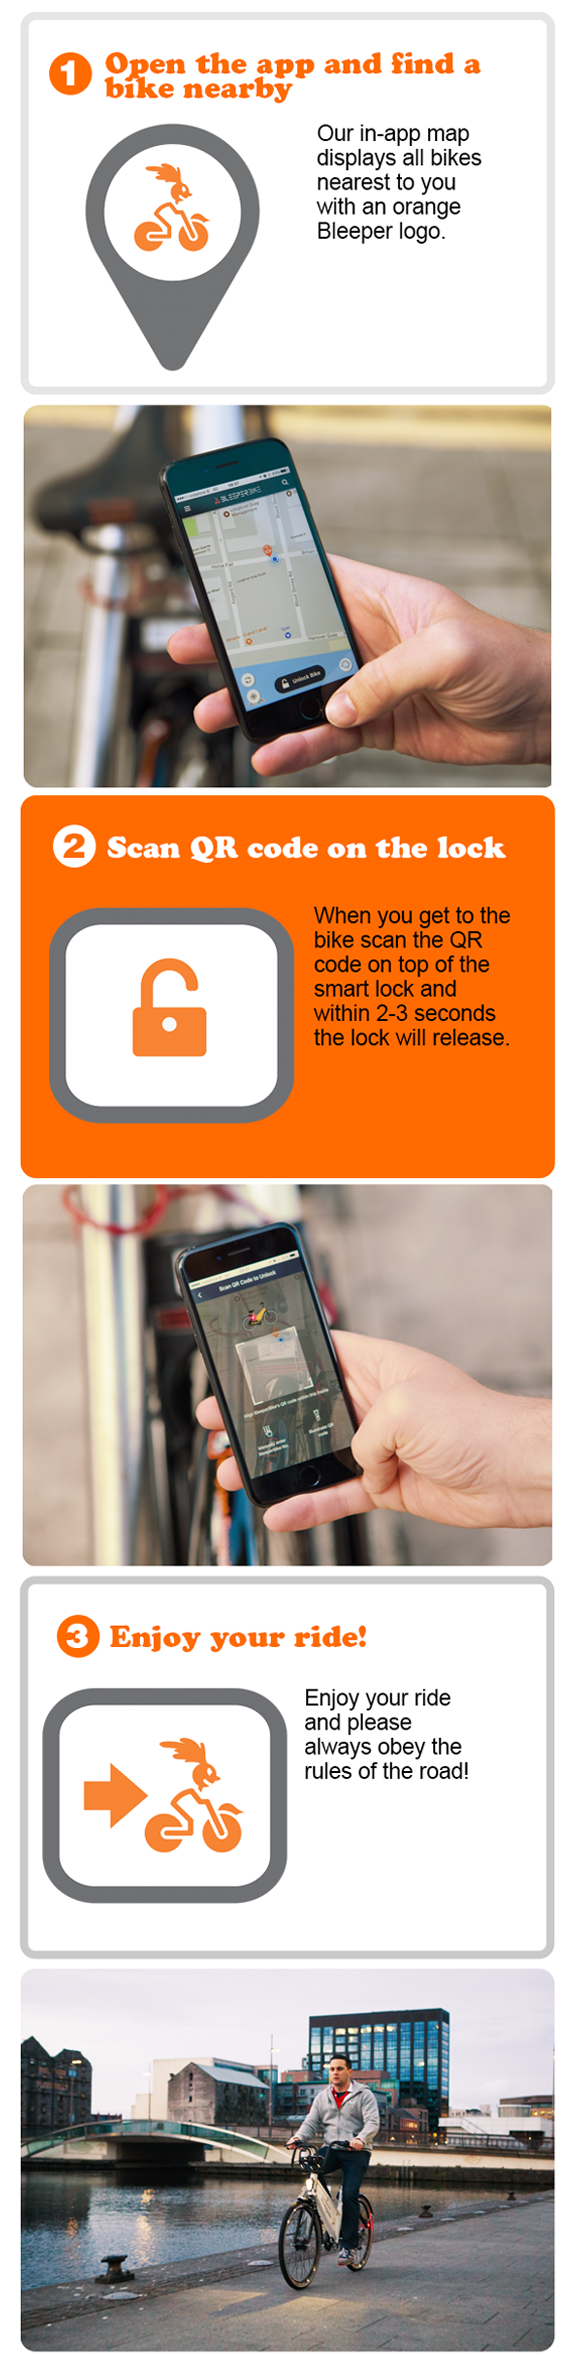
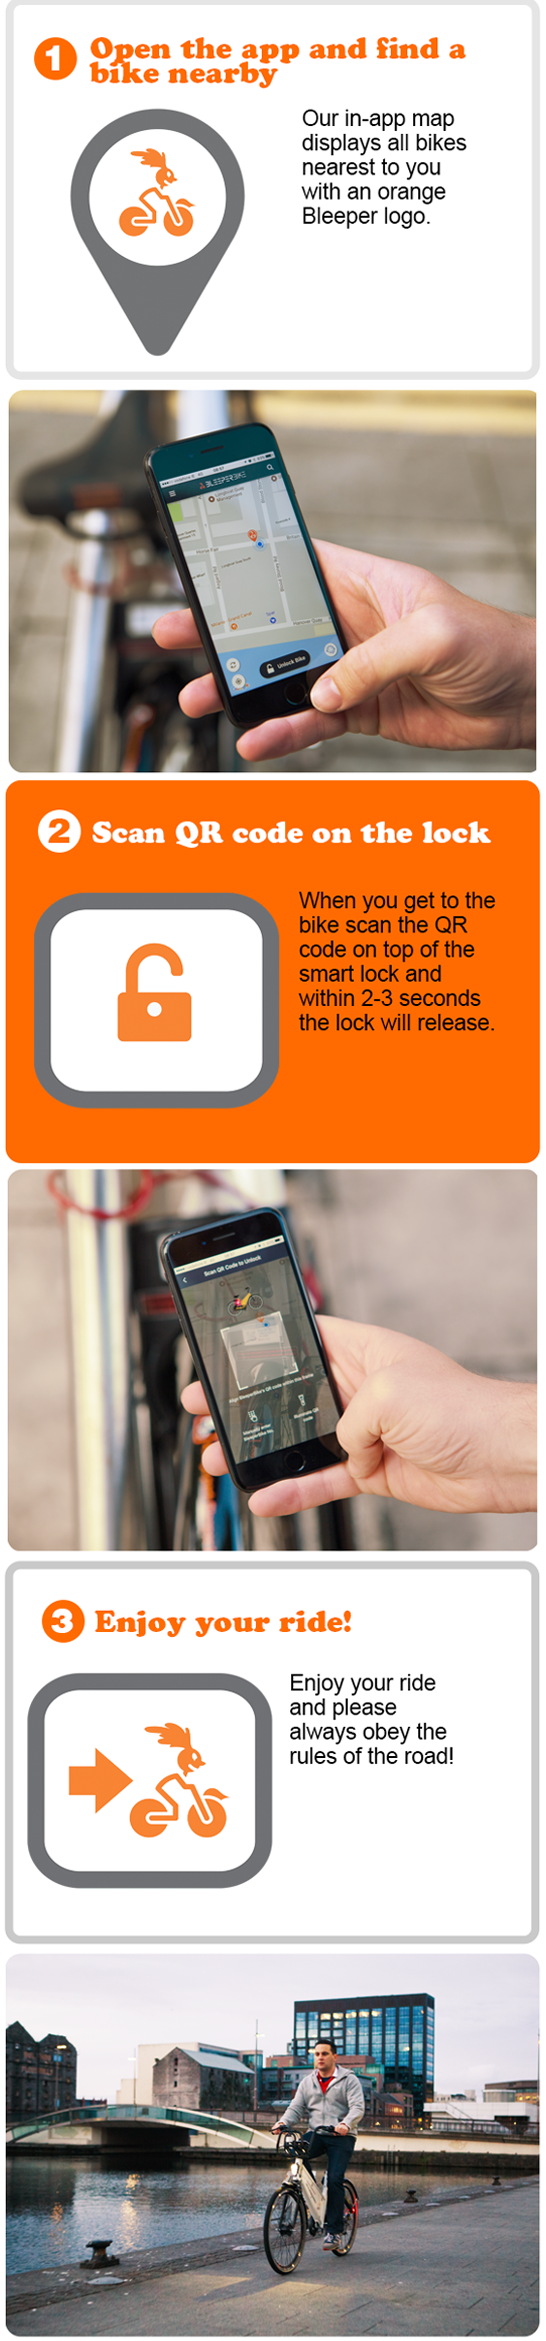
20170902 - updated privacy; updated terms; fixed mobile how it works

diff --git a/app/assets/stylesheets/custom/app.css b/app/assets/stylesheets/custom/app.css
@@ -100,7 +100,7 @@ body{
 }
 /*banner*/
 .banner{
-    padding: 0 .53rem;
+    /*padding: 0 .53rem;*/
 }
 .banner_title{
     text-align: center;

diff --git a/app/models/bleeper_parking_slot.rb b/app/models/bleeper_parking_slot.rb
@@ -1,5 +1,5 @@
 class BleeperParkingSlot < ApplicationRecord
-  geocoded_by :address # can also be an IP address
+  geocoded_by :address, :latitude  => :latitude, :longitude => :longitude # can also be an IP address
   after_validation :geocode # auto-fetch coordinates
 
   reverse_geocoded_by :latitude, :longitude
